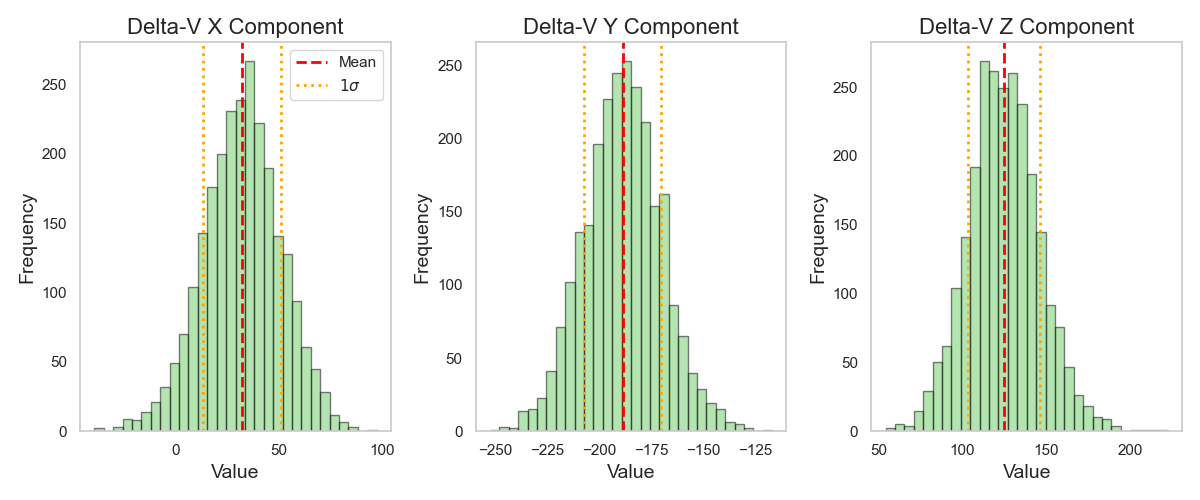
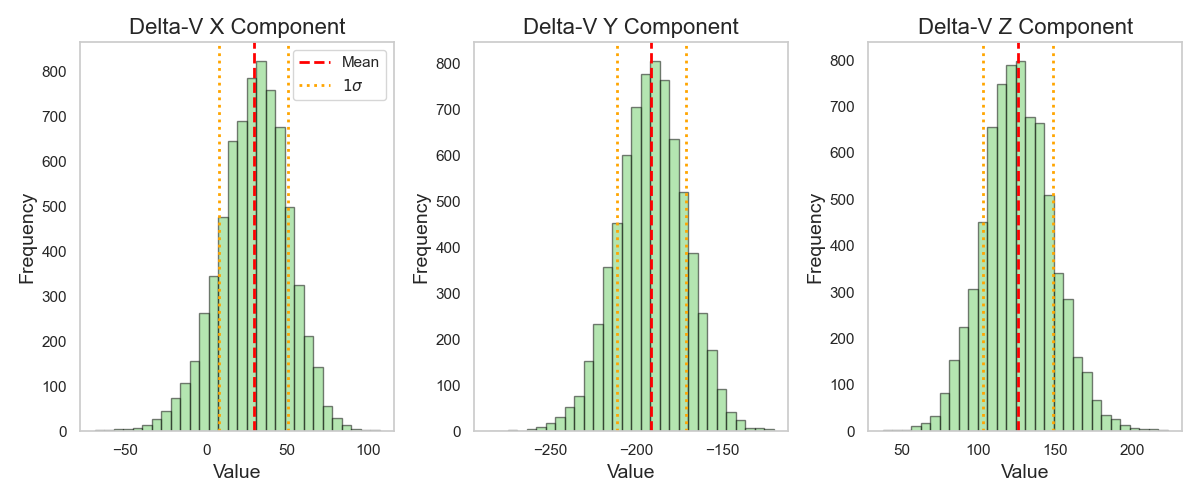
Q2: Final adjustments to part a and b

diff --git a/assignment3/Question_2.py b/assignment3/Question_2.py
@@ -6,7 +6,7 @@ import TudatPropagator as prop
 import matplotlib.pyplot as plt
 from tudatpy.astro import two_body_dynamics
 
-# Set up functions
+# Set up function to transform celestial coordinates to ECI
 def cel2eci(y_cel_list):
     '''
     This function converts celestial coordinates to ECI
@@ -108,20 +108,23 @@ for i, t in enumerate(tk):
     r_eci[i, :] += np.matmul(ecef2eci, sensor_ecef)
 
 ############# Plotting for initial analysis #############
+plt.rcParams.update({'font.size': 16})
 # Plot residuals from UKF to show where manoeuvre happens
-plt.figure(figsize = (8,8))
-plt.plot(times_ukf[:122], np.linalg.norm(resids_ukf, axis=1)[:122])
-plt.scatter(times_ukf[:122], np.linalg.norm(resids_ukf, axis=1)[:122])
+plt.figure(figsize = (12,8))
+plt.plot(times_ukf[:122]-times_ukf[0], np.linalg.norm(resids_ukf, axis=1)[:122])
+plt.scatter(times_ukf[:122]-times_ukf[0], np.linalg.norm(resids_ukf, axis=1)[:122])
 plt.grid()
+plt.yscale('log')
 plt.xlabel('Time [s]')
 plt.ylabel('Residuals [m]')
 plt.savefig('plots\Q2_pre_dv_resids1.png')
 plt.show()
 
-plt.figure(figsize = (8,8))
-plt.plot(times_ukf[:146], np.linalg.norm(resids_ukf, axis=1)[:146])
-plt.scatter(times_ukf[:146], np.linalg.norm(resids_ukf, axis=1)[:146])
+plt.figure(figsize = (12,8))
+plt.plot(times_ukf[:146]-times_ukf[0], np.linalg.norm(resids_ukf, axis=1)[:146])
+plt.scatter(times_ukf[:146]-times_ukf[0], np.linalg.norm(resids_ukf, axis=1)[:146])
 plt.grid()
+plt.yscale('log')
 plt.xlabel('Time [s]')
 plt.ylabel('Residuals [m]')
 plt.savefig('plots\Q2_pre_dv_resids2.png')
@@ -134,34 +137,29 @@ plt.rcParams.update({'font.size': 11})
 fig, axs = plt.subplots(3, 1, figsize=(8, 10), sharex=True)
 
 # First subplot
-axs[0].plot(t_prop, states_prop[:, 0]/1000, label='Propogated Orbit', color='blue')
+axs[0].plot(t_prop, states_prop[:, 0]/1000, label='Pre-Manoeuvre Orbit', color='blue')
 axs[0].scatter(tk, r_eci[:, 0]/1000, label='Observations', color='green')
-#axs[0].scatter(times, states[:, 0]/1000, color='red')
-axs[0].set_title('x component')
 axs[0].grid()
-axs[0].set_ylabel('x [km]')
-axs[0].legend()
+axs[0].set_ylabel('Inertial X Position [km]')
+axs[0].legend(loc="upper center", bbox_to_anchor=(0.5, 1.15), ncol=2, frameon=False)
 
 # Second subplot
 axs[1].plot(t_prop, states_prop[:, 1]/1000, color='blue')
 axs[1].scatter(tk, r_eci[:, 1]/1000, color='green')
-#axs[1].scatter(times, states[:, 1]/1000, label='UKF', color='red')
-axs[1].set_title('y component')
 axs[1].grid()
-axs[1].set_ylabel('y [km]')
+axs[1].set_ylabel('Inertial Y Position [km]')
 
 # Third subplot
 axs[2].plot(t_prop, states_prop[:, 2]/1000, color='blue')
 axs[2].scatter(tk, r_eci[:, 2]/1000, color='green')
-#axs[2].scatter(times, states[:, 2]/1000, color='red')
-axs[2].set_title('z component')
 axs[2].grid()
-axs[2].set_ylabel('z [km]')
+axs[2].set_ylabel('Inertial Z Position [km]')
 
 # Add a common x-label
-plt.xlabel('Time since start (s)')
+plt.xlabel('Time since J2000 [s]')
 # Adjust layout to prevent overlap
 plt.tight_layout()
+plt.savefig('plots/Q2_pre_dv_orbit.png')
 # Show plot
 plt.show()
 
@@ -243,18 +241,21 @@ def generate_noisy_eci_measurements(Yk_trimmed, tk_trimmed):
 # Set up lists to store results of state at dv
 states_at_dv = list()
 
+# Set number of first, last, and MC to use
+N_1, N_2, N_MC = 6, 6, 200
+
 # Loop through points to use for lambert arc, and fit lambert arcs
-for i in range(5):
+for i in range(N_1):
     # Define first point of lambert arc
     idx1 = 122+i
-    for j in range(5):
+    for j in range(N_2):
         print(f"#################### INIITAL POINT {i+1}, FINAL POINT {j+1} ####################")
         # Define second point of Lambert arc
         idx2 = 145-j
 
         # Set up MC for 100 runs
-        for k in range(100):
-            if (k+1)%10 == 0:
+        for k in range(N_MC):
+            if (k+1)%25 == 0:
                 print(f"{k+1} MC runs done ...")
             # Retrieve relevant measurements
             Yk_trim = [Yk[idx1], Yk[idx2]]
@@ -266,15 +267,15 @@ for i in range(5):
             # Fit lambert arc
             state1, state2 = get_lambert_problem_result(tk[idx1], tk[idx2], r1_eci_noisy, r2_eci_noisy)
 
-            # If first point is not at idx 122 propagate state 1 back with unperturbed
-            if idx1 != 122:
-                _, states_inter1 = prop.propagate_orbit(state1, [tk[idx1], tk[122]], state_params_unperturbed, int_params_MC)
-                state_at_dv_estimate = states_inter1[-1]
+            # If first point is not at idx 121 propagate state 1 back with unperturbed
+            if idx1 != 121:
+                _, states_inter1 = prop.propagate_orbit(state1, [tk[idx1], tk[121]], state_params_unperturbed, int_params_MC)
+                state_at_dv_estimate = states_inter1[0]
             else:
                 state_at_dv_estimate = state1
 
             # Calculate estimated dv
-            dv_estimate = np.linalg.norm((state_at_dv_estimate - states_ukf[122].reshape(6))[3:])
+            dv_estimate = np.linalg.norm((state_at_dv_estimate - states_ukf[121].reshape(6))[3:])
 
             # Update state params for second point of lambert arc
             state_params_MC = state_params.copy()
@@ -283,7 +284,7 @@ for i in range(5):
             state_params_MC['state'] = state2
 
             # Propagate second state from lambert arc backwards with perturbations
-            _, states_inter2 = prop.propagate_orbit(state2, [tk[idx2], tk[122]], state_params_MC, int_params_MC)
+            _, states_inter2 = prop.propagate_orbit(state2, [tk[idx2], tk[121]], state_params_MC, int_params_MC)
             state_at_dv = states_inter2[0]
 
             # Save estimated state
@@ -296,25 +297,26 @@ states_at_dv = np.array(states_at_dv)
 # Get means and cov of states at dv and dv itself
 mean_state_at_dv = np.mean(states_at_dv, axis=0)
 cov_state_at_dv = np.cov(states_at_dv.T)
-dv_array = np.array(states_at_dv - states_ukf[122].reshape(6))[:, 3:]
+dv_array = np.array(states_at_dv - states_ukf[121].reshape(6))[:, 3:]
 mean_dv = np.mean(dv_array, axis=0)
 cov_dv = np.cov(dv_array.T)
 
 # Update state parameters
 state_params_after_dv = state_params.copy()
 state_params_after_dv['mass'] = state_params['mass'] / np.exp(np.linalg.norm(mean_dv)/(220*9.80665))
-state_params_after_dv['epoch_tdb'] = tk[122]
+state_params_after_dv['epoch_tdb'] = tk[121]
 state_params_after_dv['state'] = mean_state_at_dv.reshape(6,1)
 state_params_after_dv['covar'] = cov_state_at_dv
 
 # Propagate final orbit estimate with perturbations and dv applied
-t_after_dv, states_after_dv = prop.propagate_orbit(mean_state_at_dv, [tk[122], tk[-1]], state_params_after_dv, int_params)
+t_after_dv, states_after_dv = prop.propagate_orbit(mean_state_at_dv, [tk[121], tk[-1]], state_params_after_dv, int_params)
 
 # Propagate covariance to get uncertainty in final state
-t_final, state_final, cov_final  = prop.propagate_state_and_covar(mean_state_at_dv.reshape(6,1), cov_state_at_dv, [tk[122], tk[-1]], state_params_after_dv, int_params)
+t_final, state_final, cov_final  = prop.propagate_state_and_covar(mean_state_at_dv.reshape(6,1), cov_state_at_dv, [tk[121], tk[-1]], state_params_after_dv, int_params)
 
 # Print final output
 print("####### FINAL OUTPUT #######")
+print("Assumed time of manoeuvre:", tk[122])
 print("Mean state at dv:", mean_state_at_dv)
 print("Covariance of state at dv:\n", cov_state_at_dv)
 print("Mean delta-V Mag:", np.linalg.norm(mean_dv))
@@ -351,26 +353,26 @@ plt.rcParams.update({'font.size': 11})
 # Plot comparison
 fig, axs = plt.subplots(3, 1, figsize=(8, 10), sharex=True)
 
-axs[0].scatter(tk, r_eci[:,0]/1000, color='green', marker='o', label='Measured')
-axs[0].plot(t_after_dv, states_after_dv[:,0]/1000, 'b-', label='Post-Manoeuvre')
-axs[0].plot(t_prop, states_prop[:, 0]/1000, 'r:', label='Pre-Manoeuvre')
+axs[0].scatter(tk, r_eci[:,0]/1000, color='green', marker='o', label='Observations')
+axs[0].plot(t_after_dv, states_after_dv[:,0]/1000, 'b-', label='Post-Manoeuvre Orbit')
+axs[0].plot(t_prop, states_prop[:, 0]/1000, 'r:', label='Pre-Manoeuvre Orbit')
 axs[0].grid()
-axs[0].legend()
-axs[0].set_ylabel('X [km]')
+axs[0].legend(loc="upper center", bbox_to_anchor=(0.5, 1.15), ncol=3, frameon=False)
+axs[0].set_ylabel('Inertial X Position [km]')
 
 axs[1].scatter(tk, r_eci[:,1]/1000, color='green', marker='o')
 axs[1].plot(t_after_dv, states_after_dv[:,1]/1000, 'b-')
 axs[1].plot(t_prop, states_prop[:, 1]/1000, 'r:')
 axs[1].grid()
-axs[1].set_ylabel('Y [km]')
+axs[1].set_ylabel('Inertial Y Position [km]')
 
 axs[2].scatter(tk, r_eci[:,2]/1000, color='green', marker='o')
 axs[2].plot(t_after_dv, states_after_dv[:,2]/1000, 'b-')
 axs[2].plot(t_prop, states_prop[:, 2]/1000, 'r:')
 axs[2].grid()
-axs[2].set_ylabel('Z [km]')
+axs[2].set_ylabel('Inertial Z Position [km]')
 
-plt.xlabel('Time')
+plt.xlabel('Time since J2000 [s]')
 plt.tight_layout()
 plt.savefig('plots/Q2_post_dv_orbit.png')
 plt.show()
@@ -423,7 +425,7 @@ for i in range(3):
     plt.xlabel("Value", fontsize=14)
     plt.ylabel("Frequency", fontsize=14)
 
-    # Plot histogram with edges
+    # Plot histogram
     counts, bins, patches = plt.hist(states_at_dv[:, i + 3], bins=30, alpha=0.5, edgecolor='black',
                                      color=colors[1])
 
@@ -491,3 +493,13 @@ sns.heatmap(np.abs(corr_dv), xticklabels=labels, yticklabels=labels,annot=False,
 plt.tight_layout()
 plt.savefig('plots/Q2_corr_dv.png')
 plt.show()
+
+####################################################################################################
+############################################## PART C ##############################################
+####################################################################################################
+
+# Time of dv: tk[122]
+
+# State after dv: mean_state_at_dv
+
+# Covariance of state after dv: cov_state_at_dv
